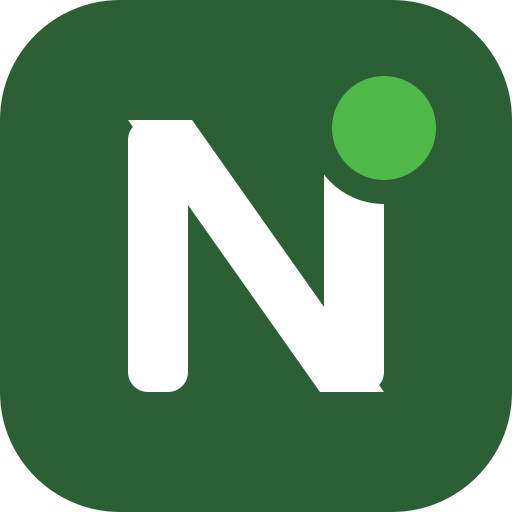
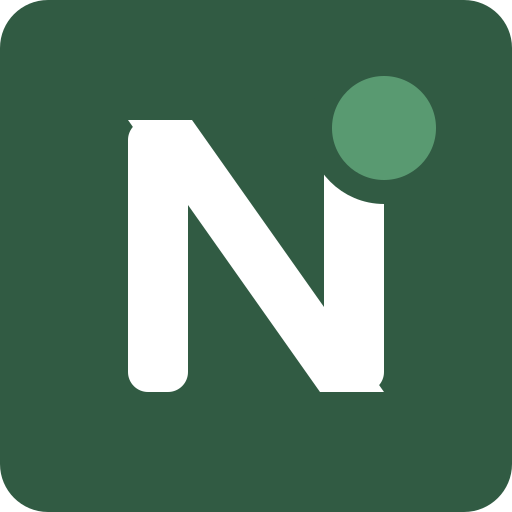
feat(api+admin+web): les décisions du 4 septembre — ce qui se paie, ce qui se dit (ADR 0037)
Décisions prises par délégation du propriétaire, meilleur intérêt financier
et produit, après la revue de f45a2e1 :

- Un désabonnement ne coupe plus les avis TRANSACTIONNELS : sendOnce ne
  supprime que les gabarits `transactionnel: false` (résumé, nouvelle
  demande, campagnes). Un client qui a refusé le marketing apprend quand même
  qu'un notaire a retenu sa demande, lui a écrit, ou que son offre est
  annulée — LCAP art. 6(6). Tests notifications, chat, contact et BDD alignés.
- La récompense de parrainage est ACQUISE à la rétention mais PAYABLE une
  fois l'acte réglé : `overview.parrainages.codes[].payable` (registre
  ACT# pour le client, notaire ayant réglé pour la prime notaire, MAX avec
  la fenêtre vivante), colonnes « Acquis » / « Payable » dans la console, le
  courriel de récompense dit le moment du versement. Ferme sans mécanisme de
  reprise l'abus « retenir, annuler, encaisser » (ADR 0011 amendé).
- `billing:write` gouverne enfin le prix de Nota : PUT/DELETE /admin/prix
  l'acceptent (avec settings:write), l'écran Prix l'honore, et le test des
  permissions n'a plus d'exception.
- Les icônes PNG (192, 512, touch) sont régénérées depuis favicon.svg.
- Restent tels quels, par décision : frais d'annulation versés au notaire,
  tuile art. 49 prudente, sujets opérateur bilingues, estampille brouillon
  des pages légales.
- NON pris : la politique de clé KMS + CloudTrail des documents, que le
[…]

diff --git a/apps/api/src/analytics.js b/apps/api/src/analytics.js
@@ -168,7 +168,9 @@ function createAnalytics({ repo, now, gaugeHorizonMonths } = {}) {
       );
       notaires = profiles
         .filter((n) => n && domain.isReferralCode(n.parrain))
-        .map((n) => ({ parrain: n.parrain, premierActe: true }));
+        // `regle` : le notaire référé a réglé au moins un acte — ce qui rend sa
+        // récompense PAYABLE (décision du 2026-09-04), la rétention l'ayant acquise.
+        .map((n) => ({ parrain: n.parrain, premierActe: true, regle: Number(n.actsCompleted) >= 1 }));
     }
     // The durable earning events — the ledger's all-time truth. Folded into
     // per-code per-track counts; a repo without the method (or a failed read)
@@ -206,6 +208,50 @@ function createAnalytics({ repo, now, gaugeHorizonMonths } = {}) {
     }
     for (const row of byCode.values()) {
       row.du = row.retenues * domain.REFERRAL.client + row.notairesActifs * domain.REFERRAL.notaire;
+    }
+    // ACQUIS vs PAYABLE (décision du 2026-09-04). `du` reste ce que la
+    // rétention a ACQUIS au partenaire — le registre write-once ne ment pas.
+    // Mais une demande retenue puis annulée ne se paie pas, et sans mécanisme
+    // de reprise (ADR 0011 : EARN est write-once) seul le moment du versement
+    // ferme cette porte : un gain client devient PAYABLE quand l'acte de la
+    // demande est réglé (registre ACT#), un gain notaire quand le notaire
+    // référé a réglé au moins un acte. C'est ce que l'opérateur verse.
+    const payable = new Map(); // CODE -> { client, notaire }
+    await Promise.all(
+      earnings.map(async (e) => {
+        if (!e || !domain.isReferralCode(e.code)) return;
+        const code = domain.normalizeReferralCode(e.code);
+        let ok = false;
+        try {
+          if (e.track === 'client' && typeof repo.getActCompletion === 'function') {
+            ok = !!(await repo.getActCompletion(e.refId));
+          } else if (e.track === 'notaire' && typeof repo.getNotary === 'function') {
+            const n = await repo.getNotary(e.refId);
+            ok = !!(n && Number(n.actsCompleted) >= 1);
+          }
+        } catch {
+          ok = false; // un registre illisible ne rend rien payable
+        }
+        if (!ok) return;
+        const p = payable.get(code) || { client: 0, notaire: 0 };
+        p[e.track] += 1;
+        payable.set(code, p);
+      })
+    );
+    // La fenêtre vivante compte aussi (même filet de sécurité que `du` : MAX,
+    // jamais somme) : `completes` = demandes référées dont l'acte est réglé,
+    // et les notaires référés de la fenêtre qui ont réglé au moins un acte.
+    const windowNotaires = new Map(); // CODE -> notaires référés ayant réglé
+    for (const n of notaires) {
+      if (!n.regle) continue;
+      const code = domain.normalizeReferralCode(n.parrain);
+      windowNotaires.set(code, (windowNotaires.get(code) || 0) + 1);
+    }
+    for (const row of byCode.values()) {
+      const p = payable.get(row.code) || { client: 0, notaire: 0 };
+      const client = Math.max(p.client, Number(row.completes) || 0);
+      const notaire = Math.max(p.notaire, windowNotaires.get(row.code) || 0);
+      row.payable = client * domain.REFERRAL.client + notaire * domain.REFERRAL.notaire;
     }
     // Every CONFIRMED code is a row, even with zero referrals — the operator
     // must see a partner the moment they confirm, not the day they earn. A

diff --git a/apps/admin/public/admin.js b/apps/admin/public/admin.js
@@ -929,7 +929,9 @@
     var table = el('table', 'ptable');
     var thead = el('thead');
     var hr = el('tr');
-    ['Code', 'Partenaire', 'Demandes', 'Retenues', 'Complétés', 'Notaires', 'Actifs', 'Dû'].forEach(function (h, i) {
+    // « Acquis » = ce que la rétention a écrit au registre ; « Payable » = ce
+    // que l'opérateur verse, une fois l'acte réglé (décision du 2026-09-04).
+    ['Code', 'Partenaire', 'Demandes', 'Retenues', 'Complétés', 'Notaires', 'Actifs', 'Acquis', 'Payable'].forEach(function (h, i) {
       var th = el('th', i >= 2 ? 'is-num' : null, h);
       hr.appendChild(th);
     });
@@ -954,6 +956,9 @@
       tr.appendChild(el('td', 'is-num', num(r.notaires || 0)));
       tr.appendChild(el('td', 'is-num', num(r.notairesActifs || 0)));
       tr.appendChild(el('td', 'is-num ptable-du', moneyCents((r.du || 0) * 100)));
+      var payableTd = el('td', 'is-num ptable-du ptable-payable', moneyCents((r.payable || 0) * 100));
+      payableTd.title = 'acquis à la rétention, payable une fois l’acte signé';
+      tr.appendChild(payableTd);
       tbody.appendChild(tr);
     });
     table.appendChild(tbody);
@@ -2824,6 +2829,11 @@
   function canWriteSettings() {
     return can('settings:write');
   }
+  // Le prix de Nota se gouverne par « Configurer le paiement et le prix »
+  // (billing:write) ou par les réglages globaux (super_admin) — 2026-09-04.
+  function canWritePrix() {
+    return can('settings:write') || can('billing:write');
+  }
 
   // « 12 » or « 12,5 » (percent, comma or point) → 0.125 fraction.
   function pctToFrac(v) {
@@ -2915,14 +2925,14 @@
     }
 
     var view = el('div', 'view-enter');
-    if (!canWriteSettings()) {
+    if (!canWritePrix()) {
       var note = el('div', 'tpl-readonly-note');
       note.appendChild(el('strong', null, 'Lecture seule'));
       note.appendChild(document.createTextNode(' — la modification du prix est réservée à l’administrateur principal.'));
       view.appendChild(note);
     }
     view.appendChild(buildPrixView(r.json));
-    if (canWriteSettings()) view.appendChild(buildPrixForm(r.json, container));
+    if (canWritePrix()) view.appendChild(buildPrixForm(r.json, container));
     container.appendChild(view);
   }
 

diff --git a/apps/admin/public/i18n.js b/apps/admin/public/i18n.js
@@ -122,6 +122,10 @@
   "Dû": "Owed",
   "Non inscrit": "Not registered",
   "Agent immobilier": "Real-estate agent",
+  "Courtier immobilier": "Real-estate broker",
+  "Acquis": "Earned",
+  "Payable": "Payable",
+  "acquis à la rétention, payable une fois l’acte signé": "earned at retention, payable once the act is signed",
   "Courtier hypothécaire": "Mortgage broker",
   "Autre professionnel": "Other professional",
   "Impossible de charger les données.": "Unable to load the data.",
@@ -274,7 +278,7 @@
   "Garantie de date Nota": "Nota date guarantee",
   "La garantie de date est ce que NOTA vend pour tenir une date rapprochée. Elle ne se confond pas avec le droit du notaire de tenir compte de l’urgence dans SES honoraires (art. 49 4° du Code de déontologie) : deux objets, deux lignes sur le devis du client.": "The date guarantee is what NOTA sells to hold a near-term date. It is not the notary’s own right to weigh urgency in THEIR fees (s. 49(4) of the Code of ethics): two things, two lines on the client’s quote.",
   "Valeur par défaut du déploiement — aucun prix enregistré.": "Deployment default — no price stored.",
-  "Lignes enregistrées mais hors catalogue, donc ignorées : ": "Lines stored but outside the catalogue, and therefore ignored: ",
+  "Lignes enregistrées mais hors catalogue, donc ignorées :": "Lines stored but outside the catalogue, and therefore ignored:",
   "Le client autorise sa carte pour le montant offert au notaire PLUS ce prix. Le notaire reçoit ses honoraires en entier ; ce prix ne dépend ni de lui, ni de sa cote, ni de la valeur de l’acte.": "The client authorizes their card for the amount offered to the notary PLUS this price. The notary receives their fees in full; this price depends neither on them, nor on their cote, nor on the value of the act.",
   "Modifier la grille": "Edit the grid",
   "Les montants sont saisis en dollars — « 249 » signifie 249,00 $.": "Amounts are entered in dollars — “249” means $249.00.",

diff --git a/apps/api/src/emails.js b/apps/api/src/emails.js
@@ -1821,17 +1821,22 @@ function referralRewardClient(ctx) {
     fr: {
       heading: 'Votre référence a été retenue',
       lead: 'Une demande envoyée avec votre code' + (ctx.code ? ' ' + ctx.code : '') + ' vient d’être retenue par un notaire.',
+      // Acquise à la rétention, VERSÉE à la signature (décision du 2026-09-04) :
+      // une demande retenue puis annulée ne se paie pas — sans mécanisme de
+      // reprise, seul le moment du versement ferme cette porte.
       bodyHtml:
-        callout(money(amount) + ' vous sont crédités — ' + offerLine(ctx)),
-      textLines: [money(amount) + ' crédités · ' + offerLine(ctx)],
+        callout(money(amount) + ' vous sont acquis — ' + offerLine(ctx)) +
+        para('Le montant vous est versé une fois l’acte signé. Une demande annulée avant la signature ne donne lieu à aucun versement.'),
+      textLines: [money(amount) + ' acquis · ' + offerLine(ctx), 'Versé une fois l’acte signé — une demande annulée avant la signature ne donne lieu à aucun versement.'],
       ctaLabel: 'Voir le carnet',
     },
     en: {
       heading: 'Your referral was taken',
       lead: 'A request sent with your code' + (ctx.code ? ' ' + ctx.code : '') + ' was just taken by a notary.',
       bodyHtml:
-        callout(moneyEn(amount) + ' is credited to you — ' + offerLineEn(ctx)),
-      textLines: [moneyEn(amount) + ' credited · ' + offerLineEn(ctx)],
+        callout(moneyEn(amount) + ' is earned — ' + offerLineEn(ctx)) +
+        para('The amount is paid once the act is signed. A request cancelled before signing pays nothing.'),
+      textLines: [moneyEn(amount) + ' earned · ' + offerLineEn(ctx), 'Paid once the act is signed — a request cancelled before signing pays nothing.'],
       ctaLabel: 'View the carnet',
     },
     ctaUrl: linksFor(ctx.baseUrl).carnet,

diff --git a/apps/api/src/notifications.js b/apps/api/src/notifications.js
@@ -151,7 +151,17 @@ function createNotifier({ repo, mailer, baseUrl, apiBaseUrl, operatorEmail, now,
   // stored override can silence the send or reword its copy.
   async function sendOnce({ refId, kind, to, buildTemplate, templateKey, ctx }) {
     if (!to) return { sent: false, reason: 'no-address', kind };
-    if (await repo.isUnsubscribed(to)) return { sent: false, reason: 'unsubscribed', kind };
+    // Le retrait (CASL) porte sur les envois COMMERCIAUX. Un avis
+    // transactionnel — « un notaire a retenu votre demande », « votre notaire
+    // vous a écrit », « votre offre est annulée » — est la seule trace d'un
+    // fait qui concerne l'acte de la personne ; LCAP art. 6(6) l'exempte du
+    // consentement, et le taire au nom d'un désabonnement marketing lui
+    // ferait manquer sa propre signature (décision du 2026-09-04). Le
+    // registre des gabarits (emails.js) dit lesquels sont transactionnels ;
+    // tout le reste — résumé, nouvelle demande, campagne — reste suppressible.
+    const meta = emails.TEMPLATE_META && emails.TEMPLATE_META[templateKey];
+    const transactionnel = !!(meta && meta.transactionnel === true);
+    if (!transactionnel && (await repo.isUnsubscribed(to))) return { sent: false, reason: 'unsubscribed', kind };
     if (await repo.wasNotificationSent(refId, kind)) return { sent: false, reason: 'duplicate', kind };
 
     // Art. 68 — un gabarit transactionnel ne s'éteint pas : emails.js seul sait

diff --git a/apps/api/src/admin.js b/apps/api/src/admin.js
@@ -544,7 +544,11 @@ function createAdmin({
   async function putPrixNota(token, body, { ip } = {}) {
     const p = await requireAdmin(token, { ip });
     if (!p) return { ok: false, status: 401 };
-    if (!rbac.can(p.permissions, 'settings:write')) {
+    // `billing:write` (« Configurer le paiement et le prix ») gouverne le prix
+    // de Nota ; `settings:write` (super_admin) le garde aussi. Publiée sans
+    // garde jusqu'au 2026-09-04, la première était une promesse, pas une
+    // permission (revue de f45a2e1).
+    if (!rbac.can(p.permissions, 'settings:write') && !rbac.can(p.permissions, 'billing:write')) {
       return { ok: false, status: 403, errors: [{ code: 'interdit', message: 'Réservé à l’administrateur principal.' }] };
     }
     const v = prixCfg.validatePrix(body || {});
@@ -569,7 +573,7 @@ function createAdmin({
   async function resetPrixNota(token, { ip } = {}) {
     const p = await requireAdmin(token, { ip });
     if (!p) return { ok: false, status: 401 };
-    if (!rbac.can(p.permissions, 'settings:write')) {
+    if (!rbac.can(p.permissions, 'settings:write') && !rbac.can(p.permissions, 'billing:write')) {
       return { ok: false, status: 403, errors: [{ code: 'interdit', message: 'Réservé à l’administrateur principal.' }] };
     }
     const before = prixView(await repo.getPrixNotaConfig());

diff --git a/docs/decisions/0037-decisions-du-4-septembre.md b/docs/decisions/0037-decisions-du-4-septembre.md
@@ -1,0 +1,62 @@
+# 0037 — Les décisions du 4 septembre : ce qui se paie, ce qui se dit, ce qui attend
+
+Date : 2026-09-04
+
+Statut : accepté — décisions prises par délégation du propriétaire (« prendre
+les décisions à ma place … meilleures d'un point de vue financier,
+optimisation et produit »), après la revue adverse de f45a2e1.
+
+## Décisions
+
+1. **Un désabonnement ne coupe plus les avis transactionnels.** `sendOnce`
+   n'applique la liste de suppression qu'aux gabarits `transactionnel: false`
+   (résumé quotidien, nouvelle demande, campagnes). Un client qui a refusé le
+   marketing apprend quand même qu'un notaire a retenu sa demande, lui a
+   écrit, ou que son offre est annulée. LCAP art. 6(6) exempte ces messages ;
+   les taire coûterait des signatures. Le lien de retrait reste sur chaque
+   courriel.
+2. **La récompense de parrainage se verse à la signature.** Acquise à la
+   rétention comme avant (EARN write-once), payable une fois l'acte réglé
+   (ACT#) — amendement de l'ADR 0011. Cela ferme sans mécanisme de reprise
+   l'abus « retenir, annuler, encaisser », et aligne le coût marketing sur un
+   revenu réellement encaissé par Nota. La page Partenaires, la FAQ, le
+   courriel de récompense et la console admin (colonnes Acquis / Payable)
+   disent la même chose.
+3. **Les frais d'annulation tardive restent versés au notaire** (ADR 0033).
+   Financièrement neutre pour Nota — ces frais n'ont jamais été un revenu
+   légitime (art. 32.1 L.N.) — et décisif pour la confiance des notaires.
+4. **La tuile art. 49 garde sa formulation prudente** (« Vos honoraires
+   restent les vôtres… »), la seule que la note juridique du dépôt soutient.
+5. **`billing:write` gouverne le prix de Nota** : la permission publiée est
+   enfin appliquée sur PUT/DELETE /admin/prix (avec `settings:write`), et le
+   test des permissions compare le catalogue au code plutôt qu'à lui-même.
+6. **Les icônes PNG suivent la marque** : régénérées depuis favicon.svg (le
+   vert des jetons du site).
+7. **Les pages légales gardent leur estampille « brouillon »** jusqu'à une
+   révision juridique — un geste et une dépense du propriétaire, pas un
+   correctif de code.
+8. **Les sujets des alertes opérateur restent bilingues** : la cohérence des
+   invariants de marque vaut plus que quelques caractères gagnés.
+
+## Ce qui attend explicitement le propriétaire
+
+**Le secret des documents dans l'infrastructure** — politique de clé KMS
+réservant le déchiffrement au rôle Lambda de l'API, et CloudTrail sur le seau
+des documents. Sans cela, deux phrases de la politique de confidentialité
+(« lisible uniquement par vous et ce notaire », « chaque ouverture est
+journalisée ») restent plus fortes que ce que le compte AWS garantit. Le
+propriétaire a répondu « do not proceed, wait for next instruction » à cette
+proposition le 2026-09-04 dans une autre session ; cette décision-là n'est
+donc PAS prise ici, et aucun fichier Terraform n'a été ajouté. Quand il la
+prendra : un fichier autonome (politique de clé + piste), à appliquer avec
+ses identifiants, après lecture du plan — une politique de clé mal écrite
+verrouille la clé.
+
+## Conséquences
+
+- `notifications.js` lit `emails.TEMPLATE_META[key].transactionnel` : un
+  nouveau gabarit doit se déclarer ; par défaut il est suppressible.
+- `analytics.overview().parrainages.codes[].payable` ; l'opérateur verse
+  `payable`, jamais `du`.
+- Tests : notifications, chat-notifications, BDD `notifications.feature`,
+  `analytics-parrainage-payable`, `admin-permissions-gate` (plus d'exception).

diff --git a/docs/decisions/0011-partner-referral-commission.md b/docs/decisions/0011-partner-referral-commission.md
@@ -110,3 +110,12 @@ program gains it:
 Everything else — flat two-track amounts, retention trigger, private
 attribution, derived ledger, no partner dashboard (a code plus transactional
 email is the simplest viable partner program) — stands as decided above.
+
+> **Amendement du 2026-09-04 (décision produit, ADR 0037).** La récompense
+> client reste ACQUISE à la rétention (registre EARN write-once, inchangé),
+> mais elle n'est VERSÉE qu'une fois l'acte de la demande réglé (registre
+> ACT#) ; la récompense notaire, une fois que le notaire référé a réglé au
+> moins un acte. `GET /admin/metrics/overview` distingue désormais `du`
+> (acquis) et `payable`. Motif : une demande retenue puis annulée ne se paie
+> pas, et comme EARN est write-once, seul le moment du versement ferme la
+> porte « retenir, annuler, encaisser 50 $ ».
